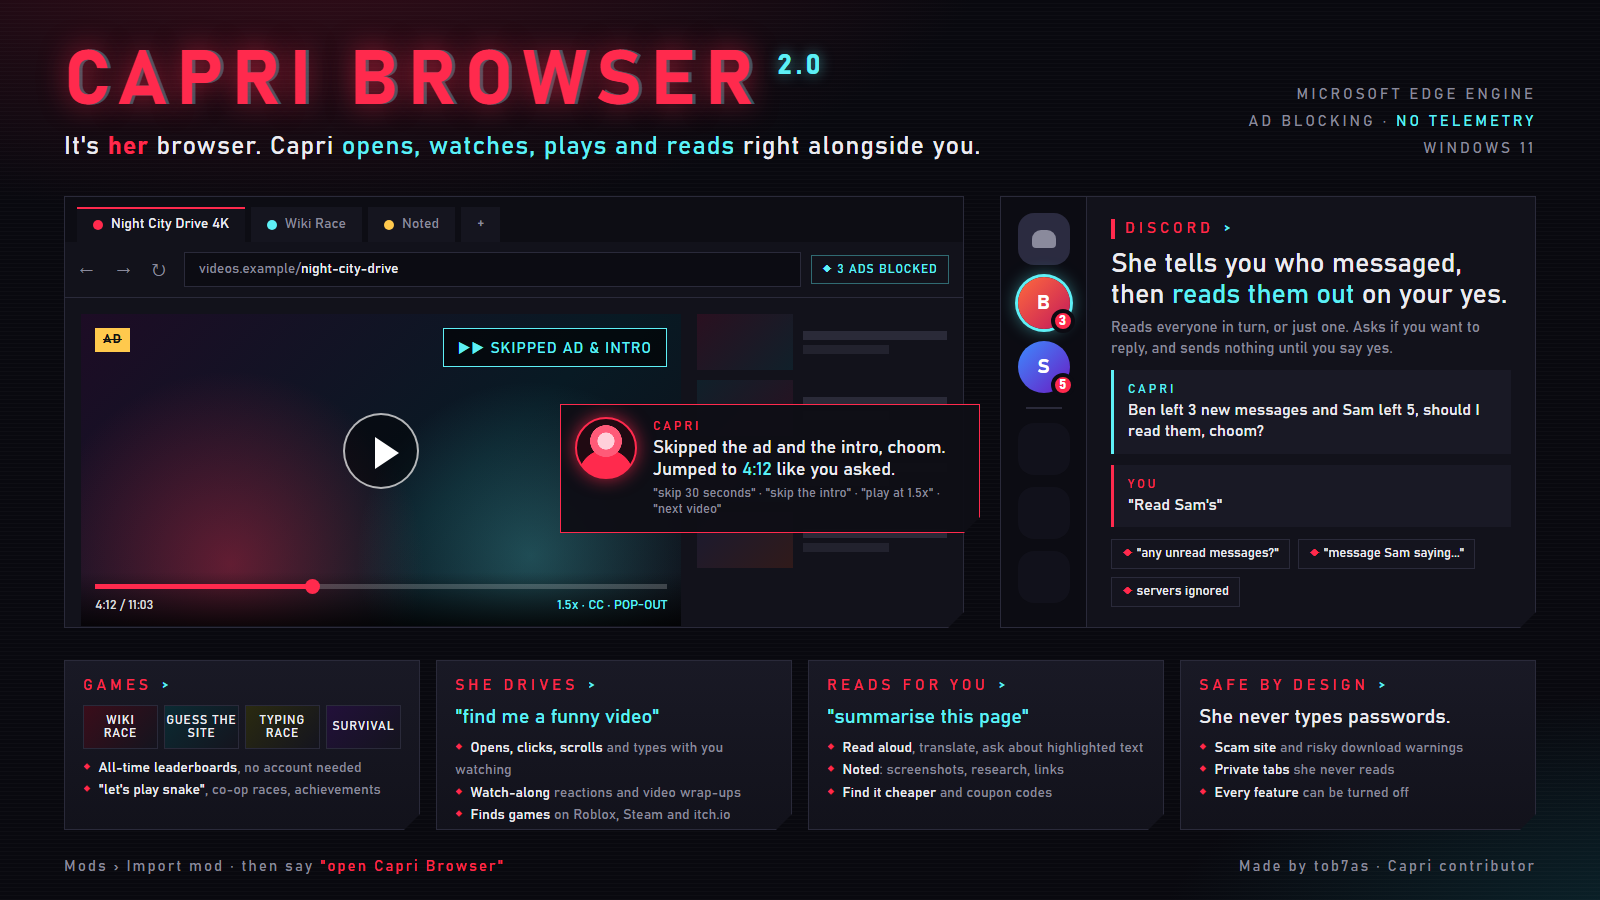
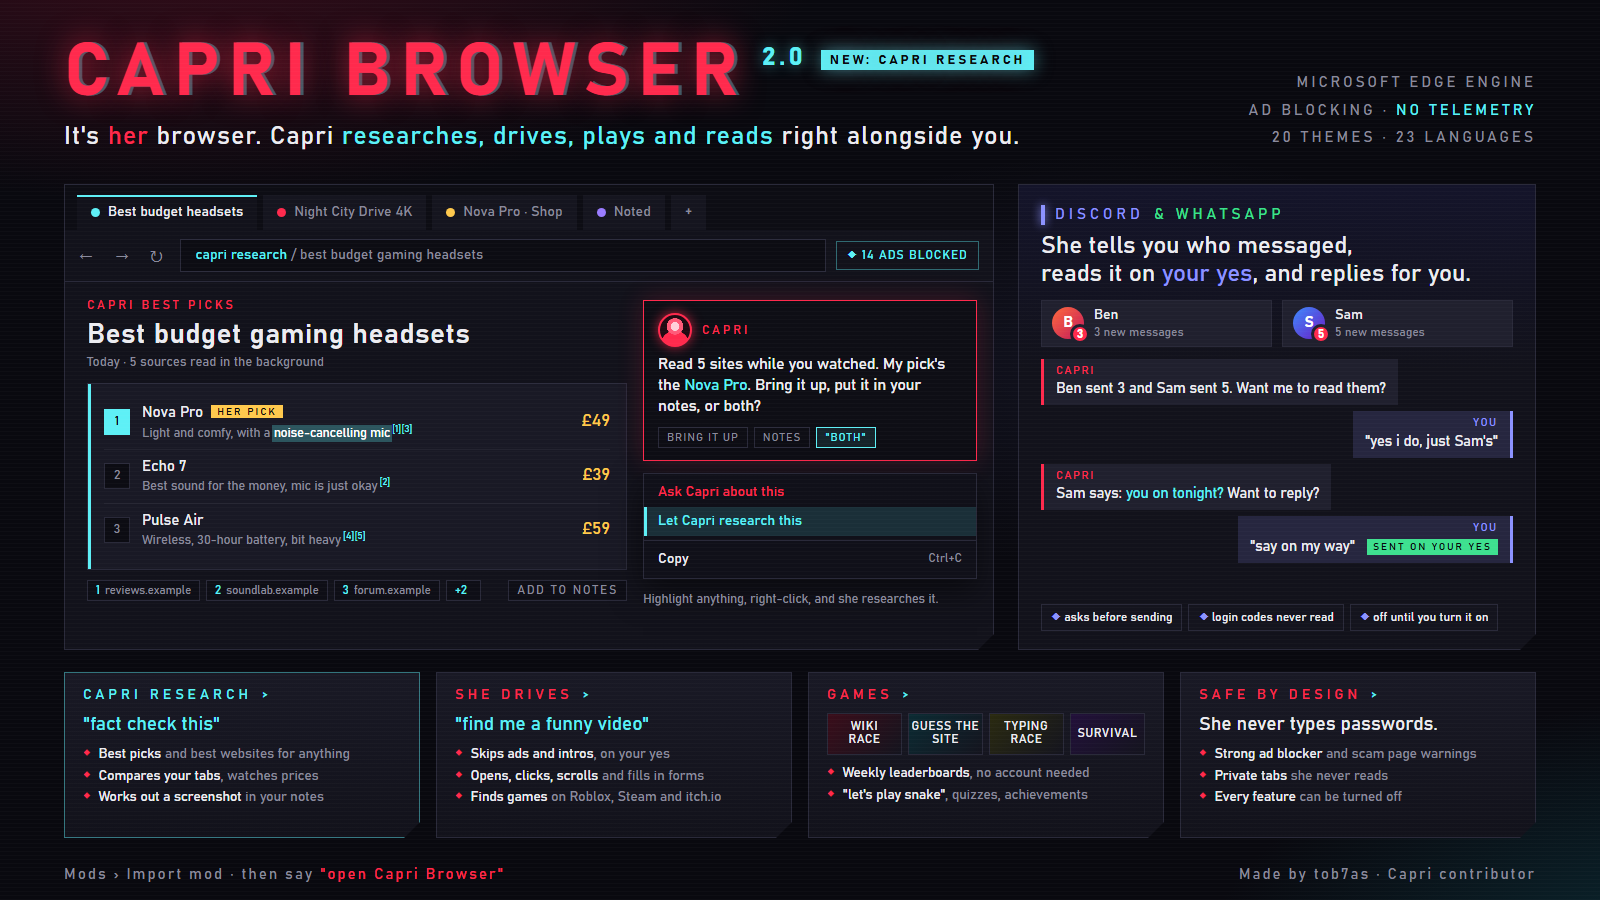
New preview image with Capri Research and a cleaner Discord panel; README rows for research

diff --git a/mods/capri-internal-browser/README.md b/mods/capri-internal-browser/README.md
@@ -22,7 +22,14 @@ A full web browser built into Capri. Capri can see the page you're on and use it
 | "what's new in Capri Browser?" | Tells you the update notes, then asks if you want her to remember them |
 | "find a random website" | Opens a random interesting site (Site Roulette) |
 | "add to my notes ..." / "note this down" / "write that down" | Puts what you said in a new Browser note (nothing said: the page you're on) |
-| "research this" / "look into ..." / "do some research on ..." | Looks it up, then saves what she found in a new note |
+| "research ..." / "look into ..." / "dig into this" | Capri Research: reads several sites in the background while you carry on, then asks to bring it up, put it in your notes, or both |
+| "what's the best ..." / "what's the best website for ..." | Her top picks with prices and sources, or the best sites for it |
+| "fact check ..." / "is it true that ..." | True, false, partly true or not clear, with sources |
+| "compare my tabs" / "which of these should I buy?" / "what have I got open?" | Compares or sums up your open tabs |
+| "work out my last note" | Works out the newest note in Noted, even a screenshot (Windows reads the text in it) or a text file |
+| "watch this page" / "tell me when the price drops" | Checks up to 5 pages every 20 minutes and tells you when it happens |
+| "fill in this form with ..." | Fills in what you told her (never passwords, card, bank or ID numbers), outlines it, and sends only on your yes |
+| Highlight text, right-click, Let Capri research this | Researches what you highlighted. The right-click menu is in Capri's colours (Settings > Appearance) |
 | "screenshot this and add it to my notes" | Puts a screenshot of the page in a new Browser note |
 | "pause" / "louder" / "next video" | Controls the video |
 | "skip 2 minutes" / "go back 30 seconds" / "skip to 3:20" | Skips or rewinds the video |
